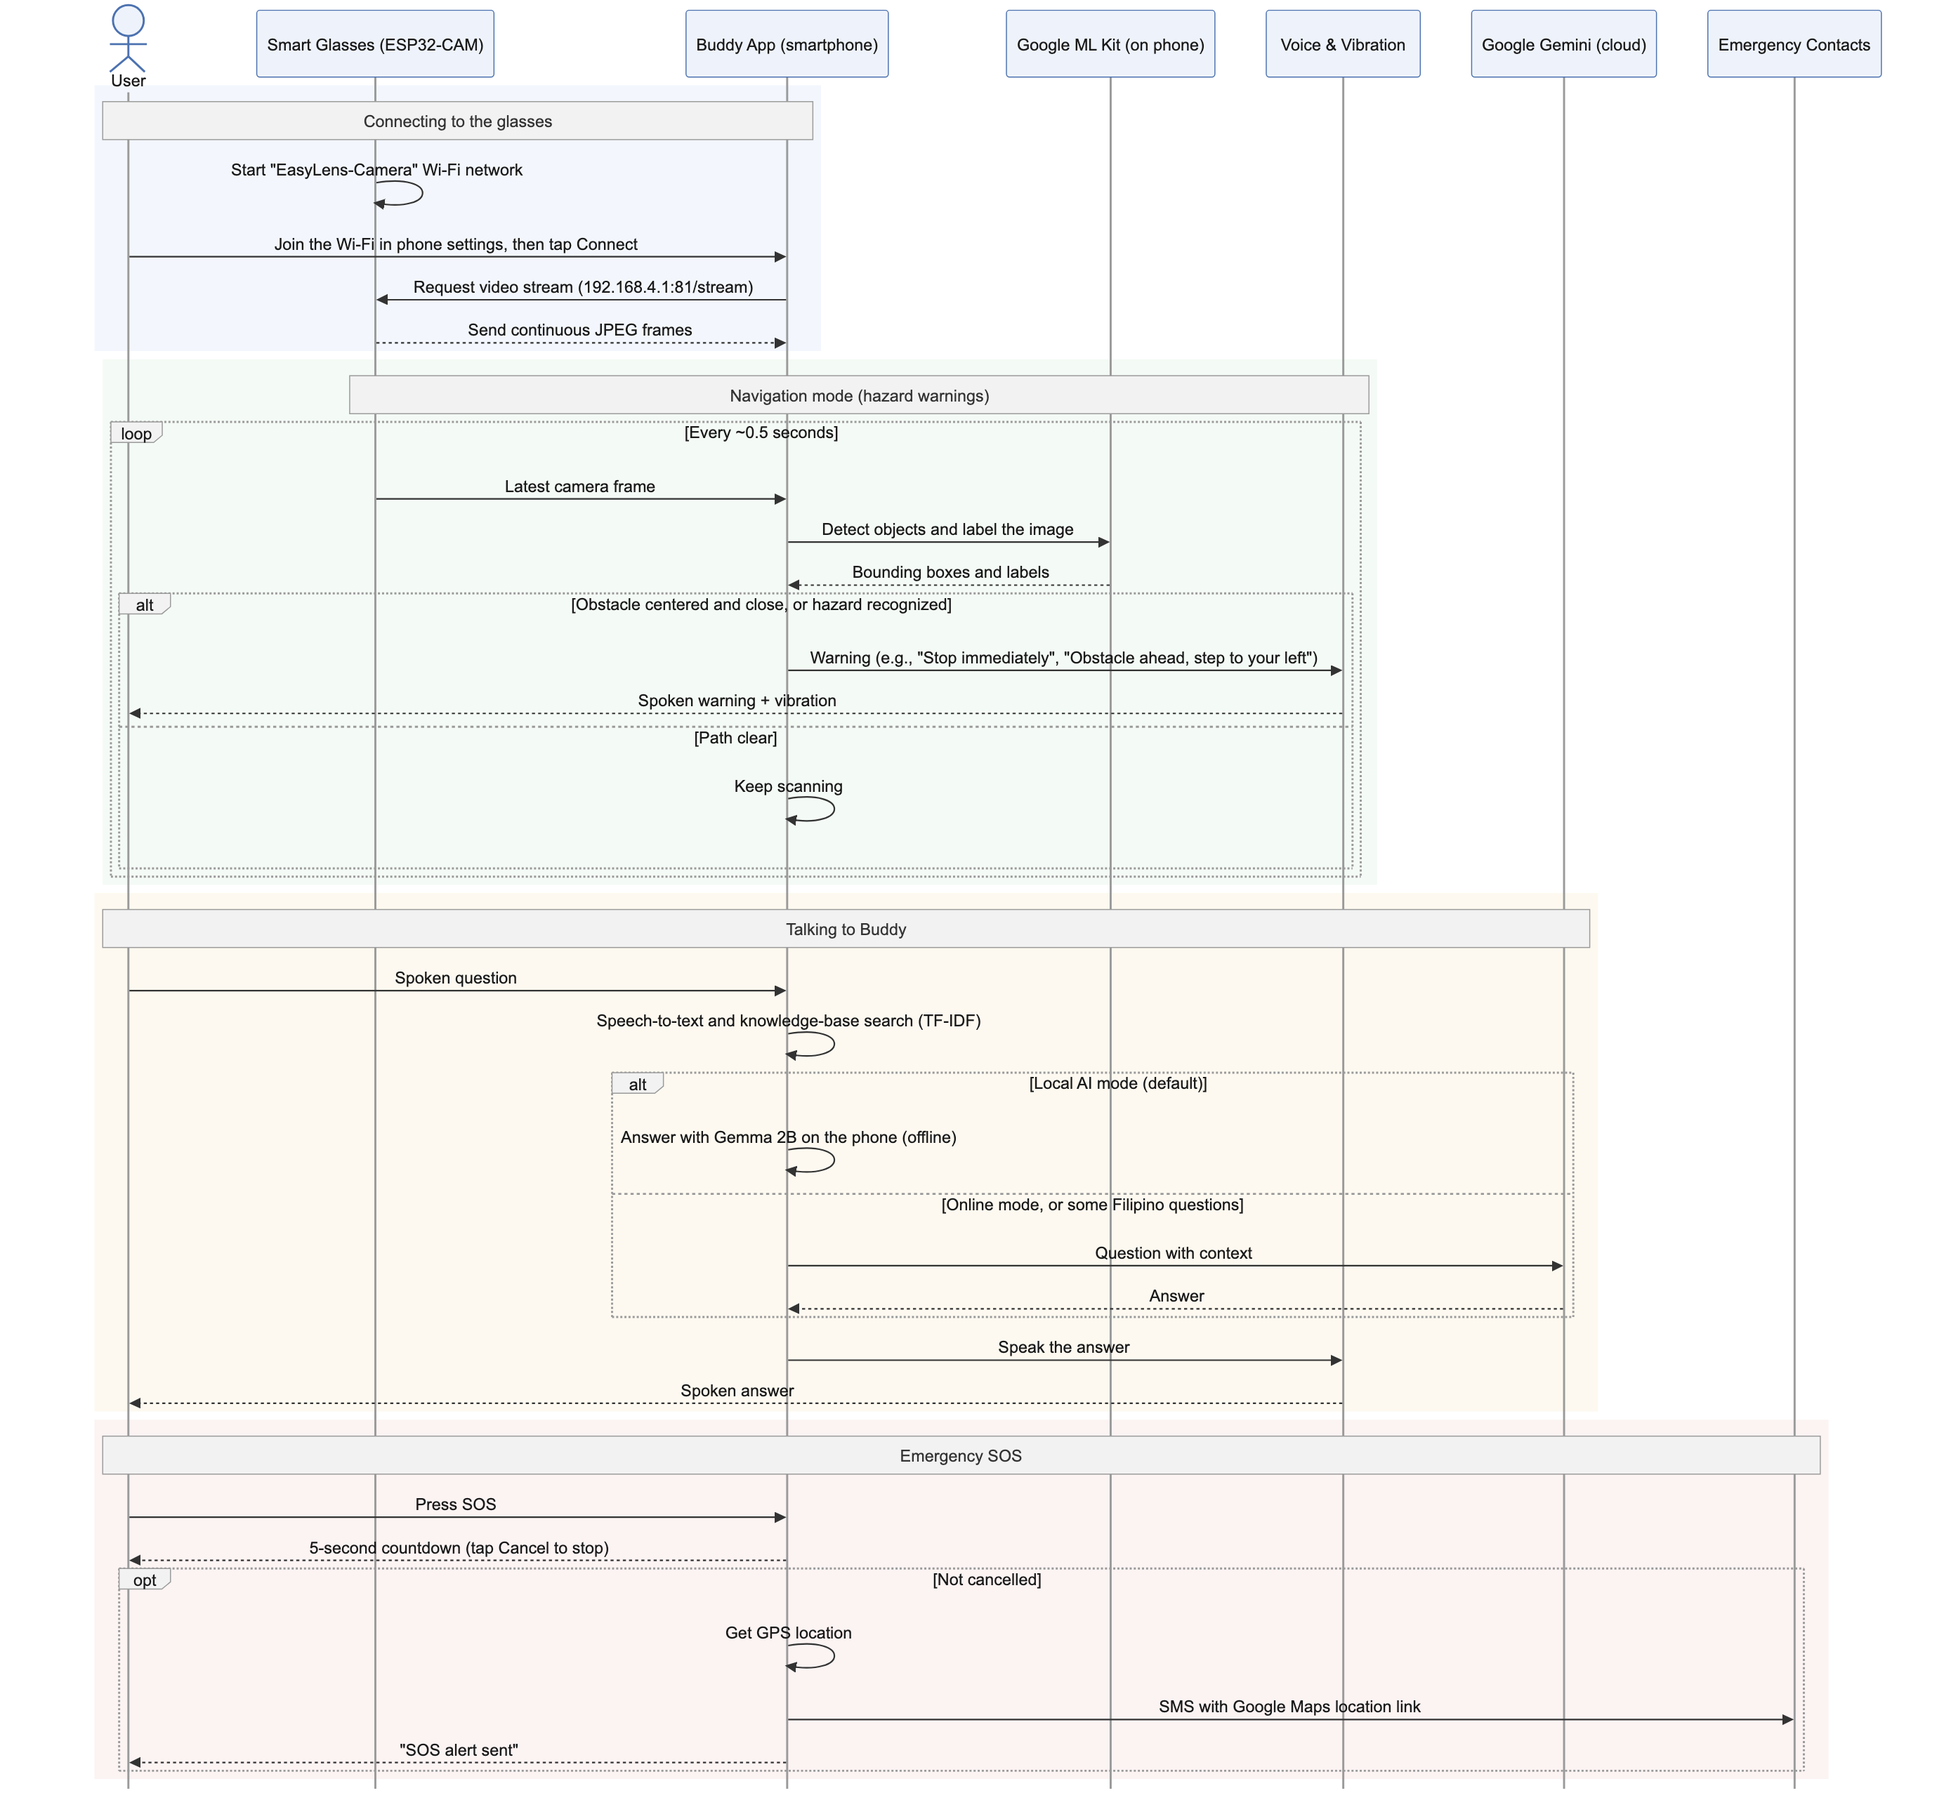
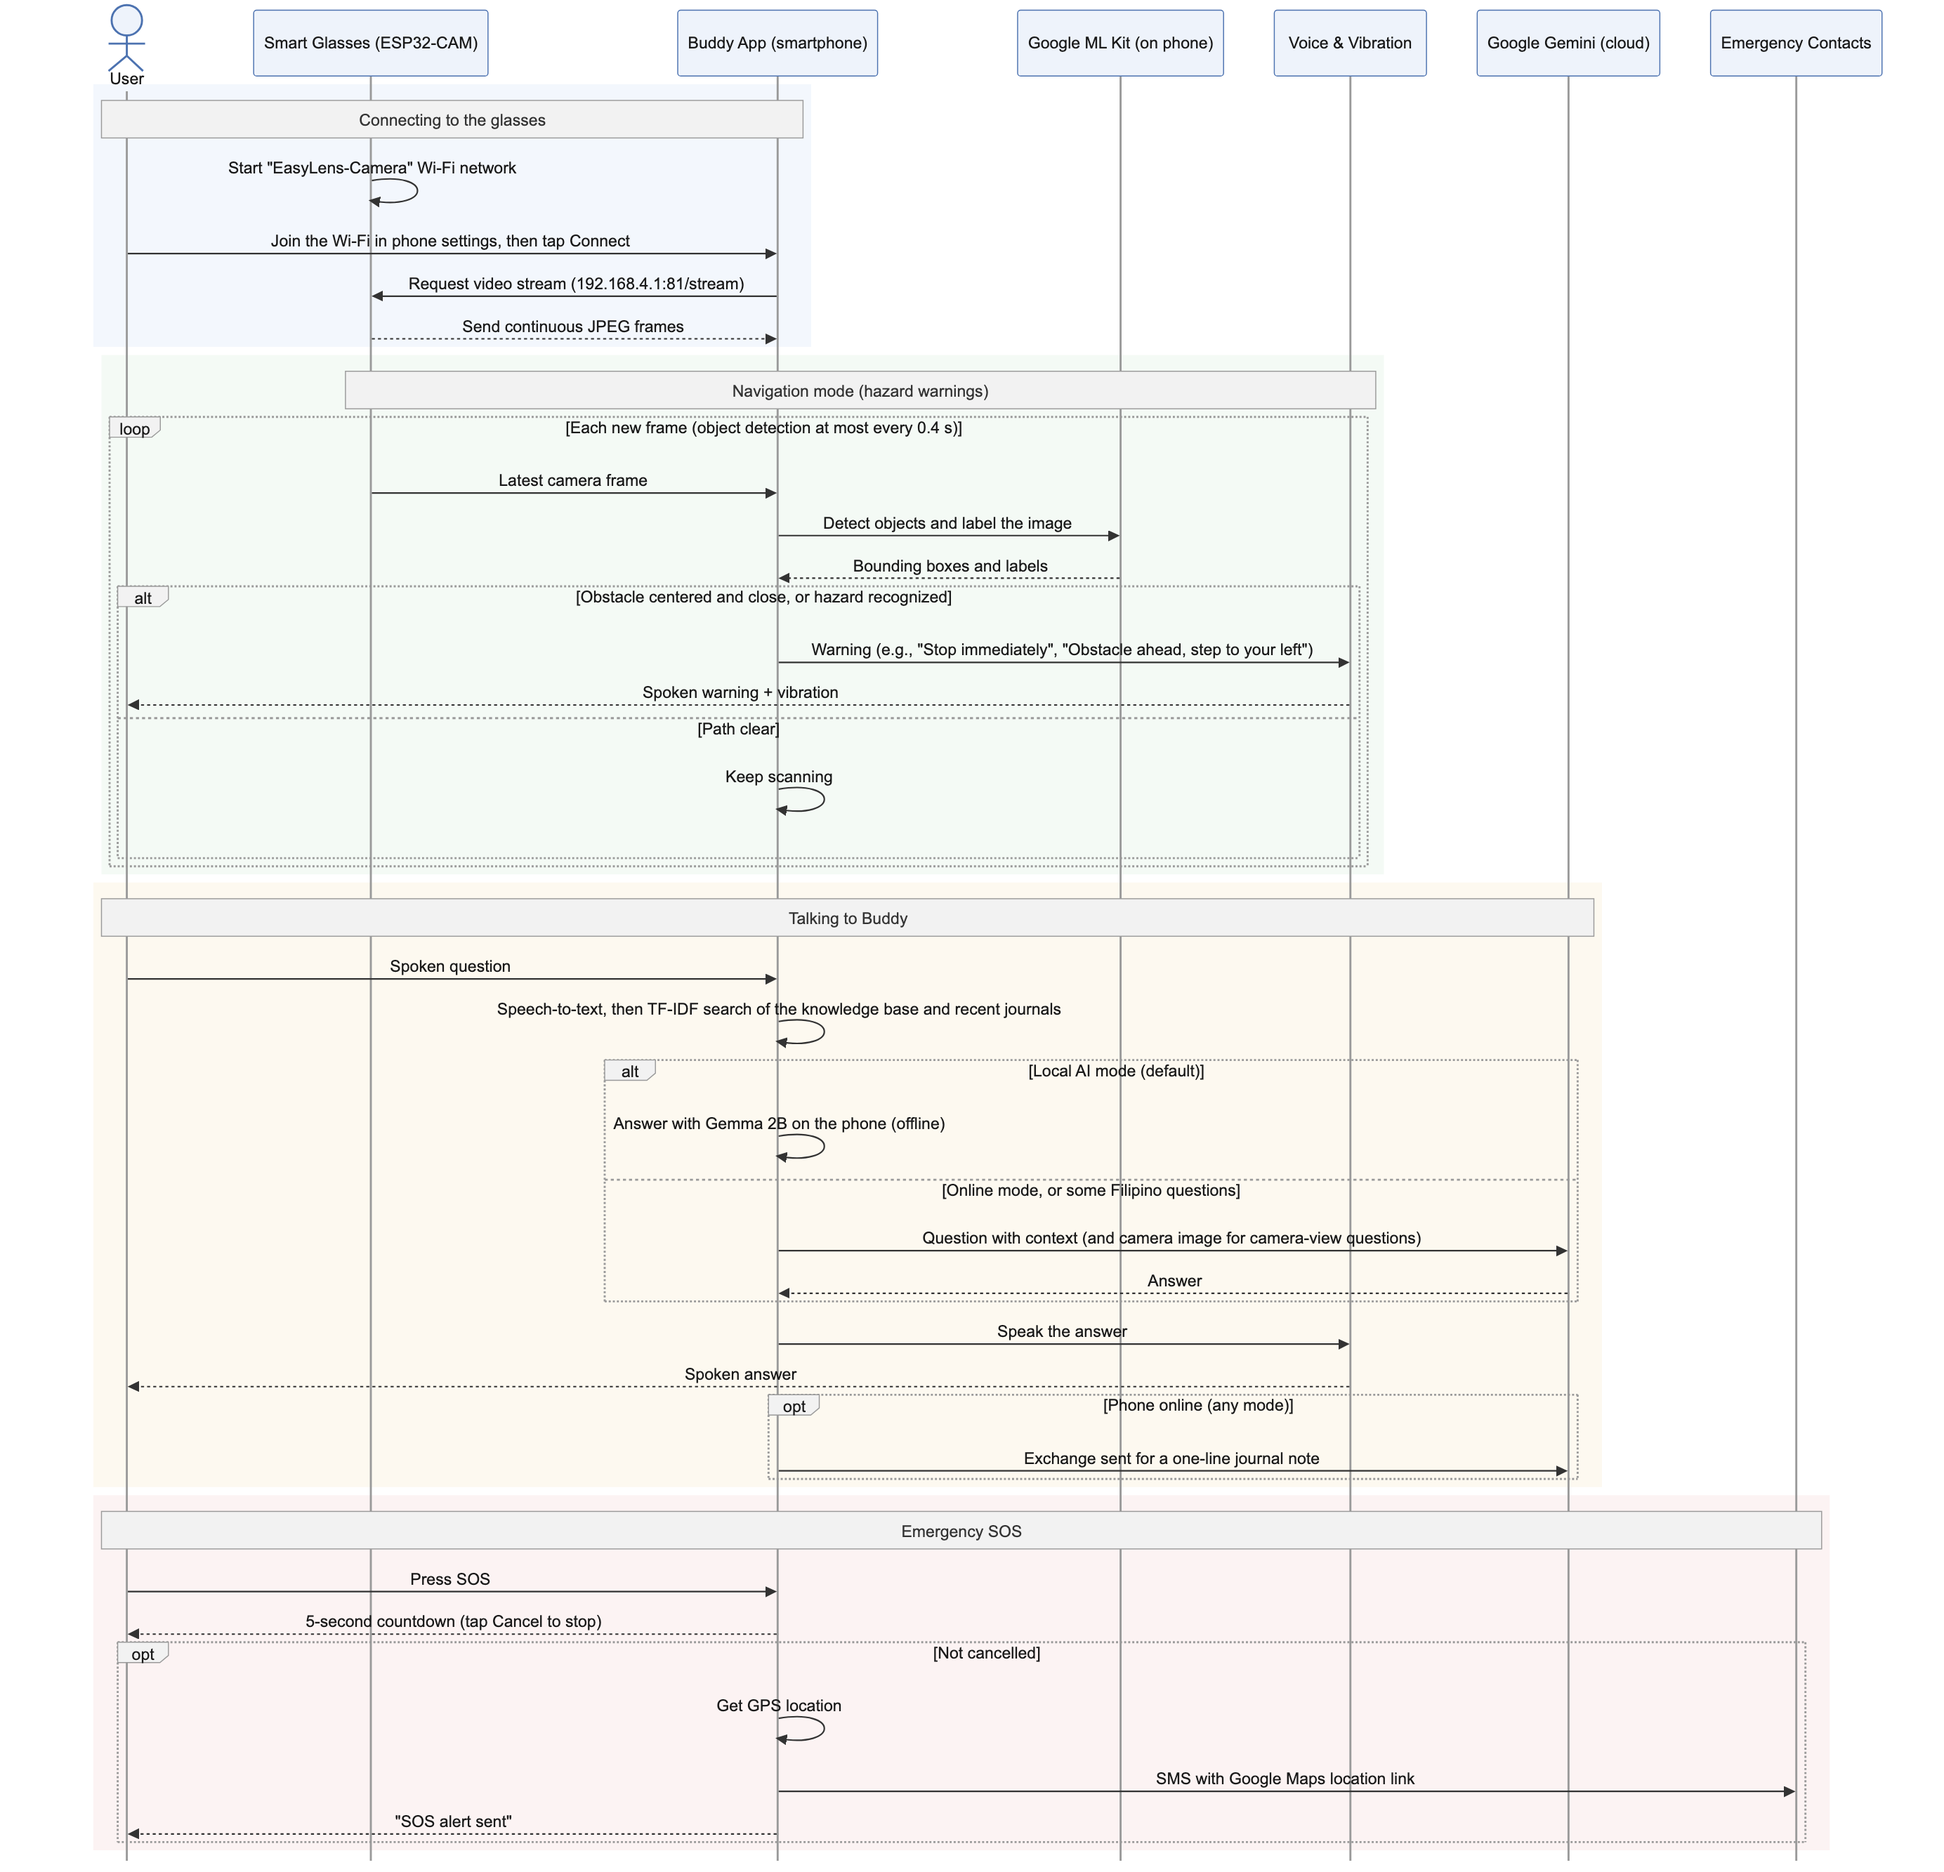
docs(figures): show every recorded dataset count in 3.12; add journal and camera-image flows to 3.7

diff --git a/docs/figures/03_chapter_3_dataset_and_demographics.md b/docs/figures/03_chapter_3_dataset_and_demographics.md
@@ -15,7 +15,7 @@
 Figure 3.3
 Dataset Curation and Pruning Workflow from 30 Raw Labels to the 24-Class Taxonomy
 
-Note. Figure 3.3 shows how the raw Kaggle dataset (30 class folders, 38,262 images) was reduced to the 24-class taxonomy: the overlapping person and Person folders were merged, and five ghost classes too small to learn from (chair, handbag, traffic_light and umbrella with 3 images each; bench with 9) were removed. The final dataset contains 38,176 images (31,866 train / 4,185 validation / 2,125 test).
+Note. Figure 3.3 shows how the raw Kaggle dataset (30 class folders, 38,262 images) was reduced to the 24-class taxonomy: the overlapping person and Person folders were merged, and five ghost classes too small to learn from (chair, handbag, traffic_light and umbrella with 3 images each; bench with 9) were removed (21 images across all splits), leaving 38,240 images. The final dataset used for Phase 4 training and the test contains 38,176 images (31,866 train / 4,185 validation / 2,125 test); the training notebook does not record the step that removed the other 64 images.
 ```
 
 ---
@@ -25,17 +25,19 @@ Note. Figure 3.3 shows how the raw Kaggle dataset (30 class folders, 38,262 imag
 ```mermaid
 %%{init: {"theme": "base", "themeVariables": {"primaryColor": "#EEF3FB", "primaryBorderColor": "#4C72B0", "primaryTextColor": "#1A1A1A", "secondaryColor": "#FFF6E5", "tertiaryColor": "#F7F7F7", "lineColor": "#444444", "fontFamily": "arial, sans-serif", "fontSize": "15px", "edgeLabelBackground": "#FFFFFF", "clusterBkg": "#F7F7F7", "clusterBorder": "#9A9A9A", "actorBkg": "#EEF3FB", "actorBorder": "#4C72B0", "actorTextColor": "#1A1A1A", "actorLineColor": "#9A9A9A", "signalColor": "#333333", "signalTextColor": "#1A1A1A", "noteBkgColor": "#F2F2F2", "noteBorderColor": "#9A9A9A", "labelBoxBkgColor": "#F2F2F2", "labelBoxBorderColor": "#9A9A9A", "loopTextColor": "#1A1A1A", "activationBkgColor": "#EEF3FB"}, "flowchart": {"wrappingWidth": 380, "nodeSpacing": 35, "rankSpacing": 45}, "fontFamily": "arial, sans-serif"}}%%
 flowchart TD
-    RAW["<b>Raw Kaggle dataset (Gobara)</b><br/>30 class folders · 38,262 images<br/>31,944 train / 4,189 validation / 2,129 test"]
+    RAW["<b>Raw Kaggle dataset (Gobara)</b><br/>COCO annotations converted to one folder per class<br/>30 classes · 38,262 images<br/>31,944 train / 4,189 validation / 2,129 test"]
 
     AUDIT["<b>1. Audit class folders</b><br/>• Duplicate labels: person and Person<br/>• Five near-empty ('ghost') classes the model could not learn"]
 
-    MERGE["<b>2. Merge overlapping folders</b><br/>person merged into Person<br/>30 → 29 classes"]
+    REDIST["<b>2. Redistribute rare-class images across splits</b><br/>Total unchanged: 38,262 images<br/>31,940 train / 4,191 validation / 2,131 test"]
 
-    PRUNE["<b>3. Prune ghost classes</b><br/>chair, handbag, traffic_light, umbrella (3 images each)<br/>bench (9 images in train and test)<br/>29 → 24 classes"]
+    MERGE["<b>3. Merge overlapping folders</b><br/>person merged into Person<br/>30 → 29 classes"]
 
-    FINAL["<b>Final 24-class dataset</b><br/>38,176 images<br/>31,866 train / 4,185 validation / 2,125 test"]
+    PRUNE["<b>4. Prune ghost classes</b><br/>bench (9 images), chair, handbag, traffic_light, umbrella (3 images each)<br/>29 → 24 classes · 38,240 images<br/>31,928 train / 4,186 validation / 2,126 test<br/>(22 fewer: the 21 ghost-class images and 1 other file)"]
 
-    RAW --> AUDIT --> MERGE --> PRUNE --> FINAL
+    FINAL["<b>Final 24-class dataset used for Phase 4 and the test</b><br/>38,176 images<br/>31,866 train / 4,185 validation / 2,125 test<br/>(64 fewer than after pruning; the notebook does not record<br/>the step that removed them)"]
+
+    RAW --> AUDIT --> REDIST --> MERGE --> PRUNE --> FINAL
 ```
 
 ---

diff --git a/docs/figures/02_chapter_3_methodology_lifecycle.md b/docs/figures/02_chapter_3_methodology_lifecycle.md
@@ -49,7 +49,7 @@ flowchart TD
 
     DP["<b>3. Data Preparation</b><br/>• Merged person into Person; removed 5 ghost classes (bench, chair, handbag, umbrella, traffic_light) → 24 classes<br/>• Images resized to 224 × 224<br/>• Augmentation: rotation ±20°, zoom 20%, width shift 20%, horizontal flip<br/>• Balanced class weights<br/>• Split: 31,866 train / 4,185 validation / 2,125 test (38,176 images)"]
 
-    M["<b>4. Modeling</b><br/>• MobileNetV2 backbone (ImageNet weights) + Dense 512 → Dense 256 → Softmax (24 classes)<br/>• Four training phases, unfreezing progressively more layers (Adam, learning rate 5e-4 → 1e-5 → 5e-6 → 1e-7)<br/>• Early stopping and learning-rate reduction on plateau<br/>• Trained in Google Colab (NVIDIA T4 GPU)"]
+    M["<b>4. Modeling</b><br/>• MobileNetV2 backbone (ImageNet weights) + Dense 512 → Dense 256 → Softmax (24 classes)<br/>• Four training phases: head only, top 30 layers, then all layers (twice) (Adam, learning rate 5e-4 → 1e-5 → 5e-6 → 1e-7)<br/>• Early stopping and learning-rate reduction on plateau<br/>• Trained in Google Colab (NVIDIA T4 GPU)"]
 
     EV["<b>5. Evaluation</b> (held-out test set, 2,125 images)<br/>• Top-1, Top-2 and Top-3 accuracy<br/>• Balanced accuracy<br/>• Weighted precision, recall and F1-score<br/>• Inference time (GPU, offline)"]
 

diff --git a/docs/figures/05_chapter_3_system_architecture_uml.md b/docs/figures/05_chapter_3_system_architecture_uml.md
@@ -43,7 +43,7 @@ sequenceDiagram
 
     rect rgb(244, 250, 245)
         note over Glasses, Output: Navigation mode (hazard warnings)
-        loop Every ~0.5 seconds
+        loop Each new frame (object detection at most every 0.4 s)
             Glasses->>App: Latest camera frame
             App->>Vision: Detect objects and label the image
             Vision-->>App: Bounding boxes and labels
@@ -59,15 +59,18 @@ sequenceDiagram
     rect rgb(253, 249, 240)
         note over User, Gemini: Talking to Buddy
         User->>App: Spoken question
-        App->>App: Speech-to-text and knowledge-base search (TF-IDF)
+        App->>App: Speech-to-text, then TF-IDF search of the knowledge base and recent journals
         alt Local AI mode (default)
             App->>App: Answer with Gemma 2B on the phone (offline)
         else Online mode, or some Filipino questions
-            App->>Gemini: Question with context
+            App->>Gemini: Question with context (and camera image for camera-view questions)
             Gemini-->>App: Answer
         end
         App->>Output: Speak the answer
         Output-->>User: Spoken answer
+        opt Phone online (any mode)
+            App->>Gemini: Exchange sent for a one-line journal note
+        end
     end
 
     rect rgb(252, 243, 243)
